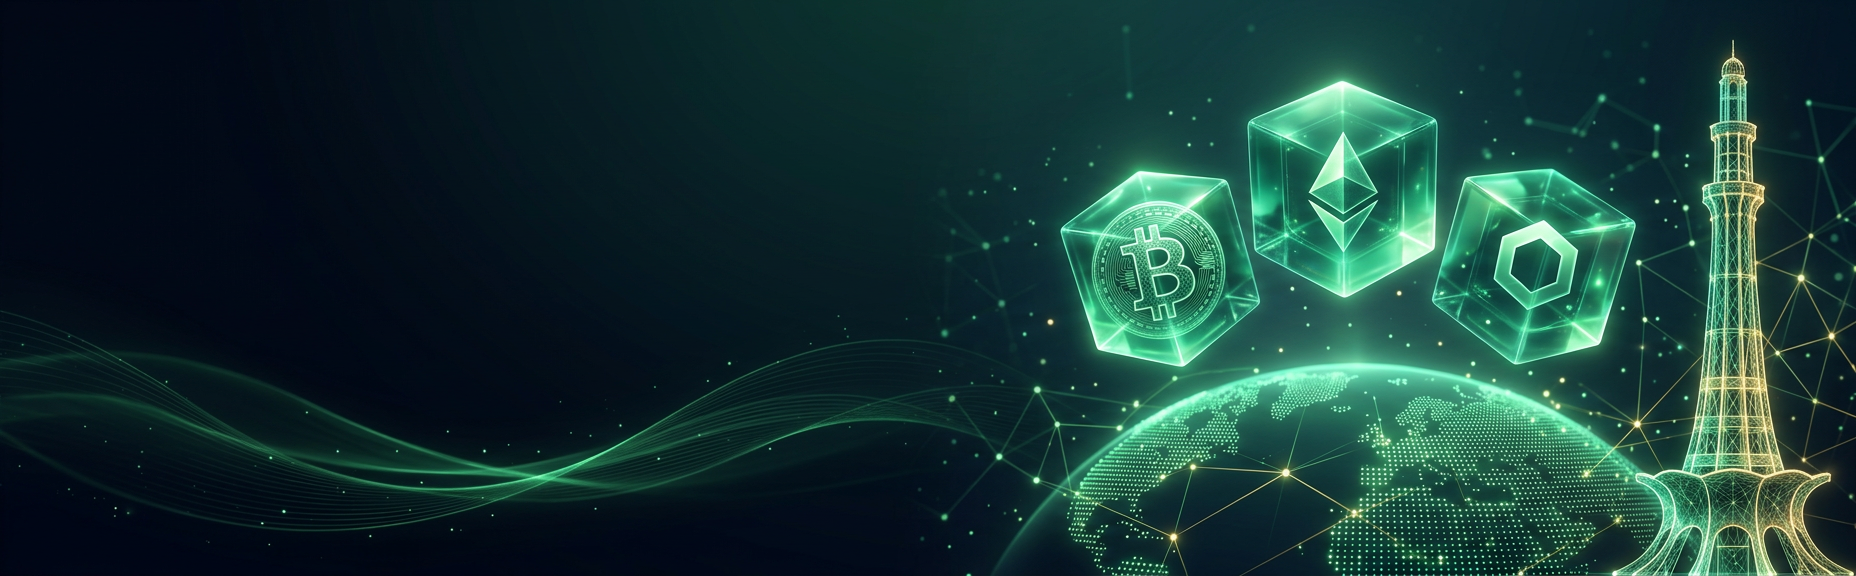
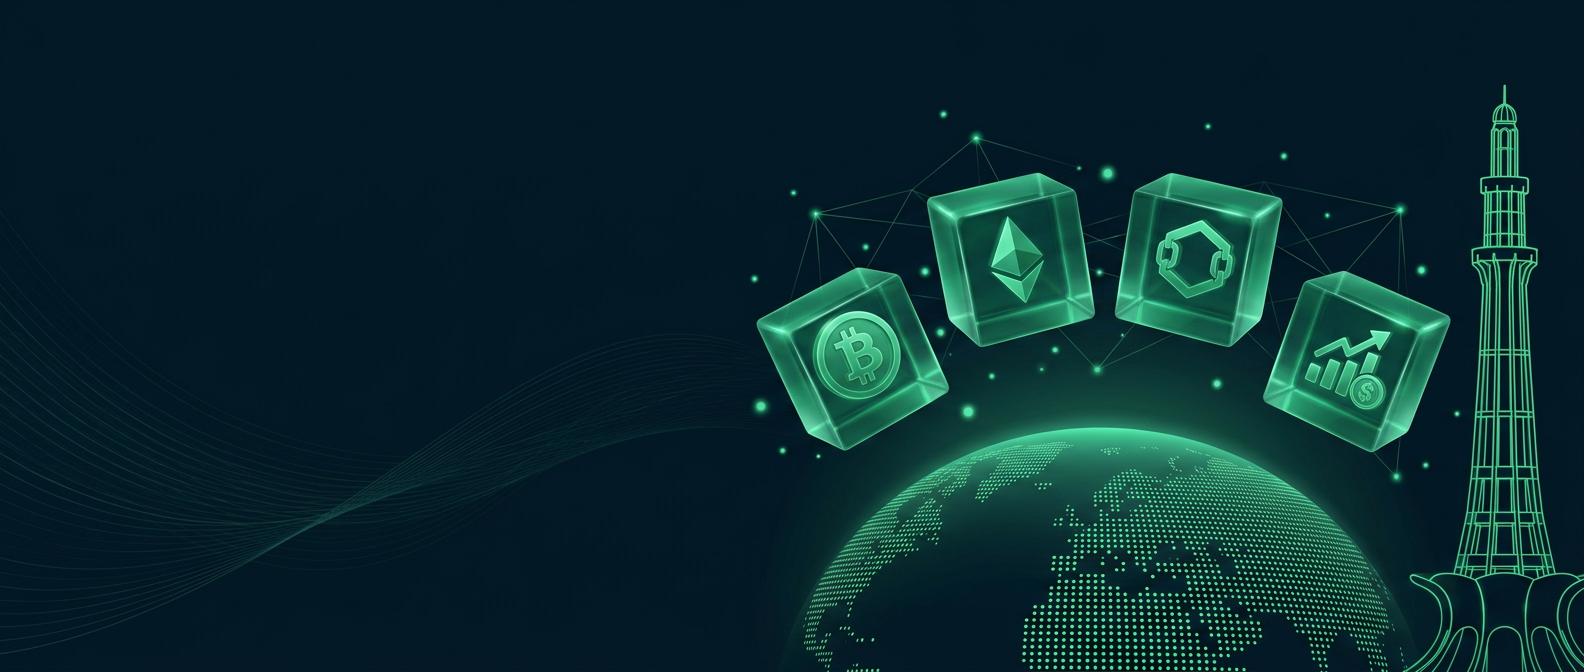
Add finance cube to KOL hero and rename route to verified-opinion-leaders

diff --git a/app/actions/kol.ts b/app/actions/kol.ts
@@ -173,8 +173,8 @@ export async function updateKolStats(platforms: KolPlatform[], monthlyReach: num
       .where(eq(kolProfiles.memberId, member.id))
     await logKol(member.id, "stats_updated", { actor: user.email, note: "Metrics awaiting re-confirmation" })
     revalidatePath("/dashboard/kol")
-    revalidatePath(`/membership/kols/${profile.slug}`)
-    revalidatePath("/membership/kols")
+    revalidatePath(`/membership/verified-opinion-leaders/${profile.slug}`)
+    revalidatePath("/membership/verified-opinion-leaders")
     return { ok: true, message: "Statistics updated. Our team will re-confirm them shortly." }
   } catch (error) {
     return { ok: false, error: error instanceof Error ? error.message : "Could not update statistics." }
@@ -258,7 +258,7 @@ export async function adminSetKolStatus(memberId: number, status: KolStatus, not
     await transitionKol(memberId, status, { actor: user.email, note: text(note, 1000) })
     revalidatePath("/admin/kol")
     revalidatePath(`/admin/kol/${memberId}`)
-    revalidatePath("/membership/kols")
+    revalidatePath("/membership/verified-opinion-leaders")
     return { ok: true }
   } catch (error) {
     return { ok: false, error: error instanceof Error ? error.message : "Could not update status." }

diff --git a/lib/site-settings.ts b/lib/site-settings.ts
@@ -193,11 +193,17 @@ export function ensureVotingMenu(input: MenuItem[]): MenuItem[] {
   return ensureKolLink(next)
 }
 
-export const KOL_MENU_LINK = { label: "Verified Opinion Leaders", href: "/membership/kols" }
+export const KOL_MENU_LINK = { label: "Verified Opinion Leaders", href: "/membership/verified-opinion-leaders" }
 
 // Adds the KOL directory under the Membership / Members menu once, without
 // touching menus that already link to it anywhere.
-function ensureKolLink(items: MenuItem[]): MenuItem[] {
+function ensureKolLink(saved: MenuItem[]): MenuItem[] {
+  const legacyHref = "/membership/kols"
+  const items = saved.map((i) => ({
+    ...i,
+    href: i.href === legacyHref ? KOL_MENU_LINK.href : i.href,
+    children: i.children?.map((c) => (c.href === legacyHref ? { ...c, href: KOL_MENU_LINK.href } : c)),
+  }))
   const linked = items.some(
     (i) => i.href === KOL_MENU_LINK.href || i.children?.some((c) => c.href === KOL_MENU_LINK.href),
   )

diff --git a/lib/email-templates/registry.ts b/lib/email-templates/registry.ts
@@ -434,7 +434,7 @@ export const EMAIL_TEMPLATES = [
     category: "KOL",
     trigger: "An admin approves a KOL application",
     recipient: "Verified KOL",
-    variables: [NAME, { name: "url", description: "Public KOL profile link", sample: "https://vaap.org.pk/membership/kols/ayesha-khan" }, { name: "expires", description: "Verification expiry date", sample: "07 Nov 2027" }],
+    variables: [NAME, { name: "url", description: "Public KOL profile link", sample: "https://vaap.org.pk/membership/verified-opinion-leaders/ayesha-khan" }, { name: "expires", description: "Verification expiry date", sample: "07 Nov 2027" }],
     defaults: {
       ...base,
       subject: "Congratulations — you're a Verified VAAP Opinion Leader",

diff --git a/app/membership/verified-opinion-leaders/[slug]/page.tsx b/app/membership/verified-opinion-leaders/[slug]/page.tsx
@@ -60,7 +60,7 @@ export default async function KolProfilePage({ params }: Props) {
       <main className="bg-surface">
         <section className="bg-navy-dark">
           <div className="vaap-container flex flex-col gap-8 py-10 md:py-14">
-            <Link href="/membership/kols" className="inline-flex items-center gap-2 self-start text-sm text-card/75 hover:text-card">
+            <Link href="/membership/verified-opinion-leaders" className="inline-flex items-center gap-2 self-start text-sm text-card/75 hover:text-card">
               <ArrowLeft className="size-4" aria-hidden="true" />
               All opinion leaders
             </Link>

diff --git a/components/kol/kol-workspace.tsx b/components/kol/kol-workspace.tsx
@@ -225,7 +225,7 @@ export function KolWorkspace({ profile, ownershipCode }: { profile: WorkspacePro
         </div>
         {profile.status === "verified" && (
           <Link
-            href={`/membership/kols/${profile.slug}`}
+            href={`/membership/verified-opinion-leaders/${profile.slug}`}
             className="inline-flex items-center gap-2 self-start rounded-lg bg-green px-4 py-2 text-sm font-semibold text-card hover:bg-green-hover"
           >
             View public profile

diff --git a/components/kol/kol-admin-manager.tsx b/components/kol/kol-admin-manager.tsx
@@ -389,7 +389,7 @@ function ReviewPanel({ row }: { row: AdminKolRow }) {
           ))}
           {row.status === "verified" && (
             <Link
-              href={`/membership/kols/${row.slug}`}
+              href={`/membership/verified-opinion-leaders/${row.slug}`}
               target="_blank"
               className={buttonVariants({ size: "sm", variant: "ghost" })}
             >

diff --git a/components/kol/kol-directory.tsx b/components/kol/kol-directory.tsx
@@ -106,7 +106,7 @@ function KolCard({ kol }: { kol: PublicKolCard }) {
           ))}
         </ul>
         <Link
-          href={`/membership/kols/${kol.slug}`}
+          href={`/membership/verified-opinion-leaders/${kol.slug}`}
           className="mt-1 inline-flex items-center gap-2 self-start text-sm font-bold text-green hover:text-green-hover"
         >
           View Profile

diff --git a/lib/kol.ts b/lib/kol.ts
@@ -97,7 +97,7 @@ export function totalFollowers(p: Pick<KolProfile, "platforms">) {
 }
 
 export function profileUrl(slug: string) {
-  return `${appBaseUrl()}/membership/kols/${slug}`
+  return `${appBaseUrl()}/membership/verified-opinion-leaders/${slug}`
 }
 
 export async function emailKol(memberId: number, key: EmailTemplateKey, vars: Record<string, string> = {}) {
